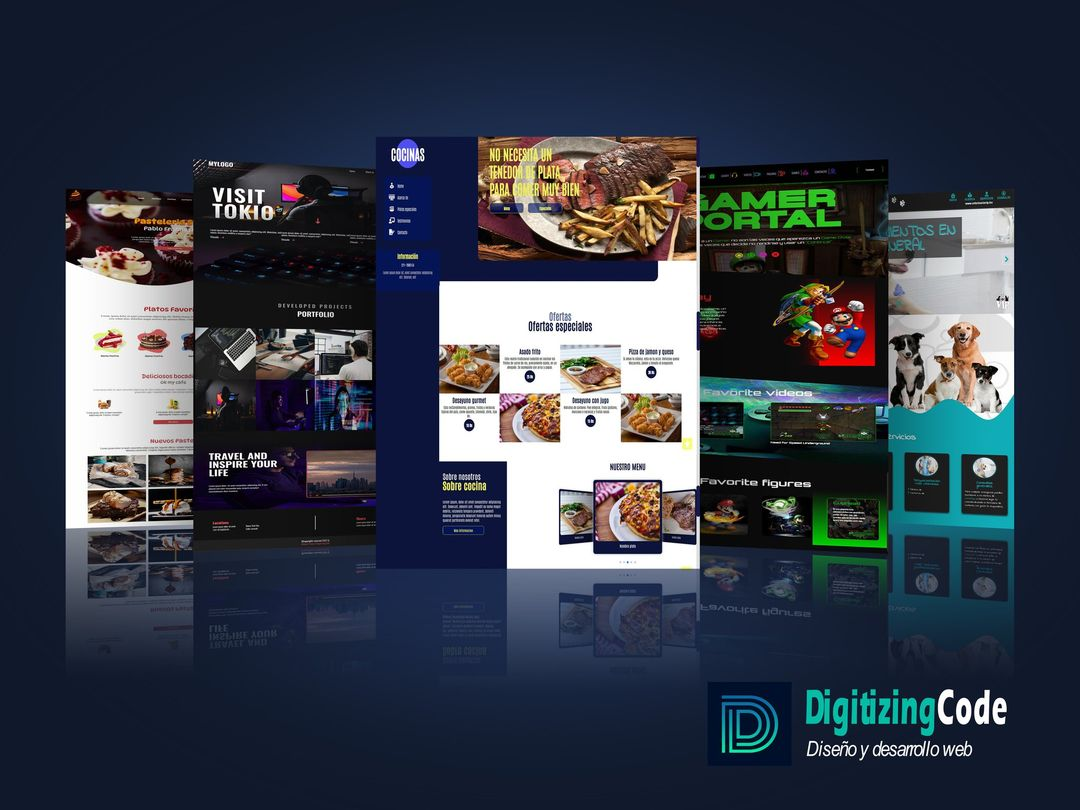
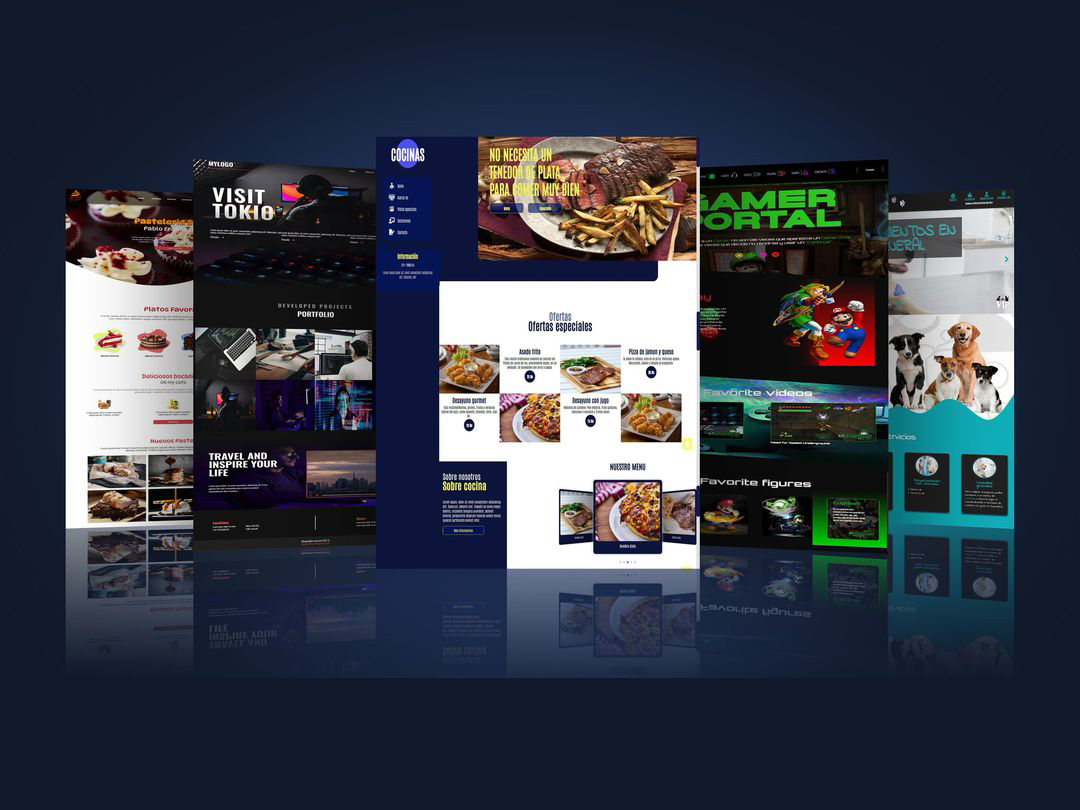
35_digitizingCode

Changed region(s): [[0.6417, 0.8333, 0.9472, 0.9568], [0.4278, 0.8333, 0.5806, 0.8642], [0.7639, 0.4012, 0.7944, 0.463]]

diff --git a/css/main.css b/css/main.css
@@ -1100,6 +1100,7 @@ body::-webkit-scrollbar-thumb:hover {
   margin-top: 80px;
   width: 100%;
   padding: 30px 0px;
+  background: #10182b;
 }
 .containerHeaderContServicios .container_banner {
   width: 100%;
@@ -1125,8 +1126,8 @@ body::-webkit-scrollbar-thumb:hover {
 }
 .containerHeaderContServicios .containerHeaderContServicios_info {
   width: 100%;
-  background: #10182b;
-  padding: 150px 30px;
+  padding-top: 150px;
+  padding-bottom: 0px;
 }
 .containerHeaderContServicios .containerHeaderContServicios_info .containerHeaderContServicios_info_title {
   font-size: 50px;
@@ -1142,7 +1143,7 @@ body::-webkit-scrollbar-thumb:hover {
 }
 .containerHeaderContServicios .containerHeaderContServicios_info .containerHeaderContServicios_info_img {
   margin: 30px auto;
-  width: 60%;
+  width: 80%;
 }
 .containerHeaderContServicios .containerHeaderContServicios_contCuadros {
   margin: 0px auto;

diff --git a/scss/_servicios.scss b/scss/_servicios.scss
@@ -12,7 +12,7 @@
     margin-top: 80px;
     width: 100%;
     padding: 30px 0px;
-
+    background: #10182b;
     //BLOCK BANNER
     .container_banner{
         width: 100%;
@@ -41,14 +41,12 @@
     }
 
 
-
-
-
-    //BLOCK
+    //BLOCK INFO
     .containerHeaderContServicios_info{
         width: 100%;
-        background: #10182b;
-        padding: 150px 30px;
+        //background: #10182b;
+        padding-top: 150px;
+        padding-bottom: 0px;
         .containerHeaderContServicios_info_title{
             font-size: 50px;
             text-align: center;
@@ -63,12 +61,10 @@
         }
         .containerHeaderContServicios_info_img{
             margin: 30px auto;
-            width: 60%;
+            width: 80%;
         }
     }
     
-
-
 
 
     //BLOCK CONTENEDOR SERVICIOS
